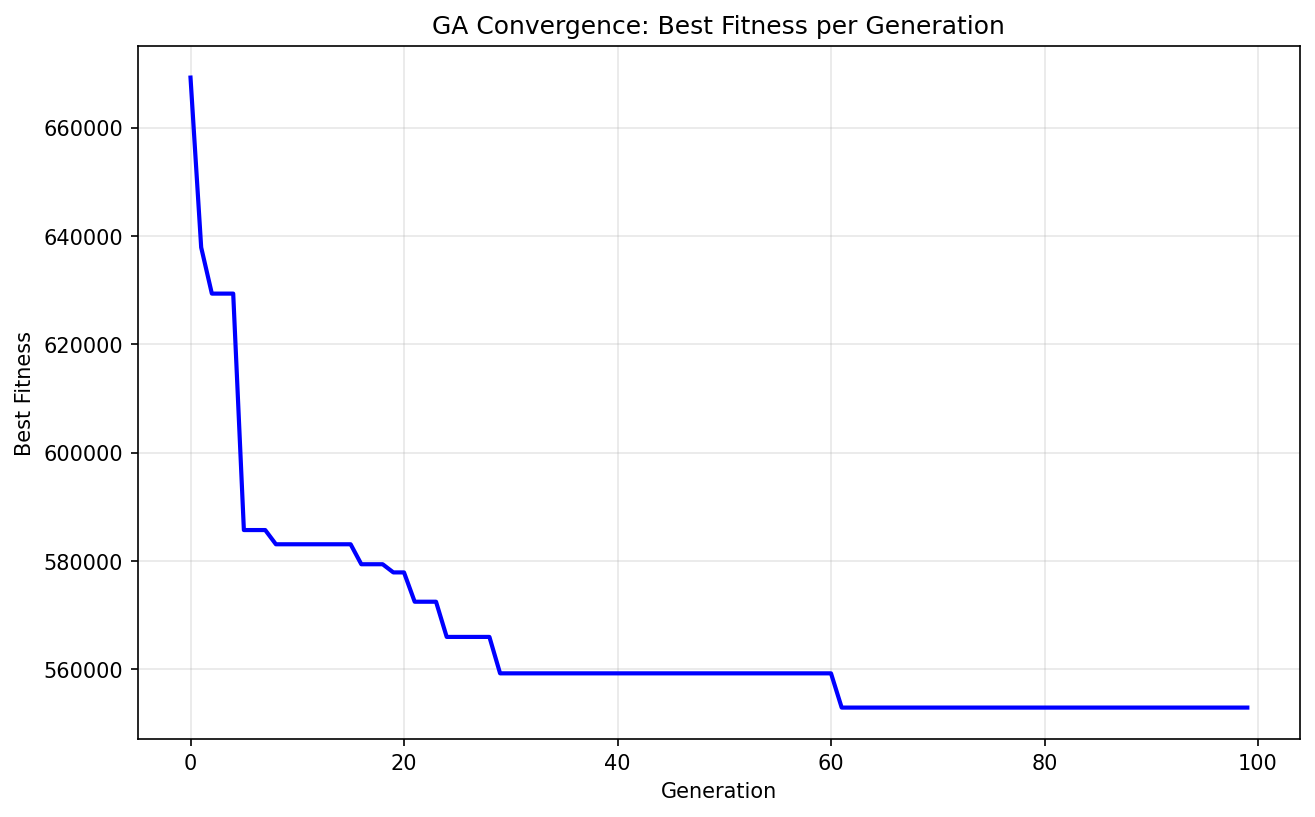
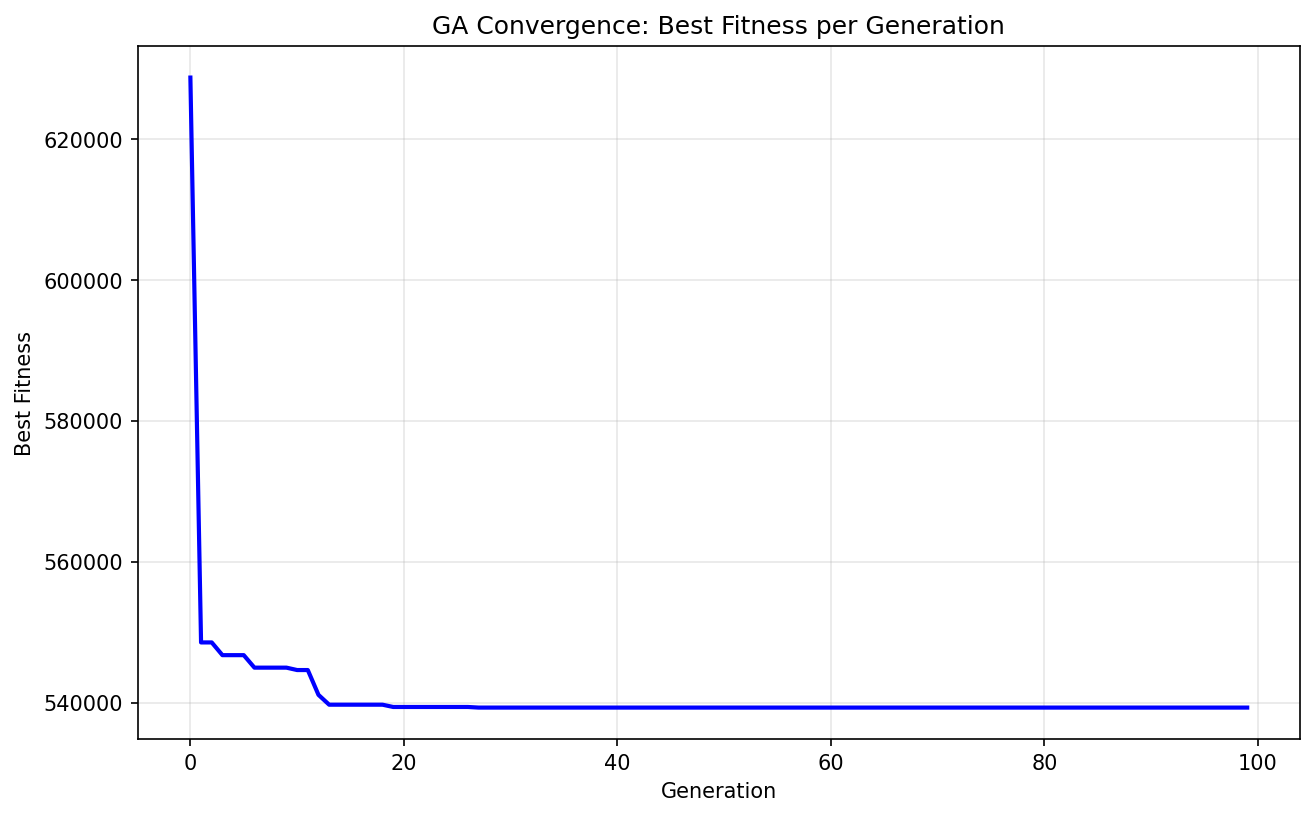
feat: update genetic algorithm parameters and enhance selection methods

diff --git a/src/genetic_algorithm.py b/src/genetic_algorithm.py
@@ -8,9 +8,9 @@ from typing import List, Callable, Optional
 
 
 NUM_STATIONS = 5
-POPULATION_SIZE = 50
-MUTATION_RATE = 0.1
-GENERATIONS = 100
+POPULATION_SIZE = 100
+MUTATION_RATE = 0.2
+GENERATIONS = 150
 
 
 class GeneticAlgorithm:
@@ -62,33 +62,27 @@ class GeneticAlgorithm:
         return random.sample(self.nodes, self.num_stations)
 
     def select_parents(
-        self, fitnesses: List[float]
+        self, fitnesses: List[float], tournament_size: int = 3
     ) -> List[int]:
-        """Roulette wheel selection.
+        """Tournament selection.
 
         Args:
             fitnesses: List of fitness values (lower = better).
+            tournament_size: Number of individuals to compare.
 
         Returns:
             Selected genome.
         """
-        # Convert to maximization (higher = better)
-        max_fitness = max(fitnesses)
-        inverted = [max_fitness - f for f in fitnesses]
-
-        total = sum(inverted)
-        if total == 0:
-            return random.choice(self.population)
-
-        # Roulette wheel
-        pick = random.uniform(0, total)
-        cumulative = 0.0
-        for i, fitness in enumerate(inverted):
-            cumulative += fitness
-            if cumulative >= pick:
-                return self.population[i].copy()
-
-        return self.population[-1].copy()
+        # Pick random candidates
+        indices = random.sample(range(len(self.population)), tournament_size)
+        
+        # Return the best one (lowest fitness)
+        best_idx = indices[0]
+        for idx in indices[1:]:
+            if fitnesses[idx] < fitnesses[best_idx]:
+                best_idx = idx
+        
+        return self.population[best_idx].copy()
 
     def crossover(
         self, parent_a: List[int], parent_b: List[int]
@@ -160,23 +154,83 @@ class GeneticAlgorithm:
 
         return result
 
+    def _greedy_genome(self, distance_matrix: np.ndarray) -> List[int]:
+        """Construct a high-quality genome greedily in O(K*N).
+        
+        Args:
+            distance_matrix: (N, N) distance matrix.
+            
+        Returns:
+            A high-quality initial genome.
+        """
+        num_nodes = distance_matrix.shape[0]
+        # Start with the node that has the minimum total distance to all others (Medoid)
+        current_best_distances = np.full(num_nodes, np.inf)
+        selected_indices = []
+        
+        # Only consider reachable nodes from the mask if possible, 
+        # but for simplicity we'll use the whole matrix as it's pre-filtered.
+        
+        for _ in range(self.num_stations):
+            # For every node, calculate what the total distance would be if we added it
+            # total_dist(j) = sum(min(current_best_distances, dist_to_j))
+            potential_distances = np.minimum(current_best_distances[:, np.newaxis], distance_matrix)
+            total_potential_costs = np.sum(potential_distances, axis=0)
+            
+            # Avoid picking the same node twice
+            for idx in selected_indices:
+                total_potential_costs[idx] = np.inf
+                
+            best_node_idx = np.argmin(total_potential_costs)
+            selected_indices.append(best_node_idx)
+            current_best_distances = potential_distances[:, best_node_idx]
+            
+        return [self.nodes[i] for i in selected_indices]
+
+    def _local_search(self, genome: List[int], fitness_fn: Callable) -> List[int]:
+        """Hill climbing: try swapping each station with its neighbors or random nodes."""
+        best_genome = genome.copy()
+        best_fitness = fitness_fn(best_genome)
+        
+        improved = True
+        while improved:
+            improved = False
+            for i in range(len(best_genome)):
+                original_node = best_genome[i]
+                # Try a few random nodes to swap with (Stochastic Hill Climbing)
+                # In a graph, we'd try neighbors, but random works for facility location.
+                candidates = random.sample(self.nodes, 10) 
+                for candidate in candidates:
+                    if candidate in best_genome: continue
+                    
+                    best_genome[i] = candidate
+                    new_fitness = fitness_fn(best_genome)
+                    
+                    if new_fitness < best_fitness:
+                        best_fitness = new_fitness
+                        improved = True
+                        break # Found a better node for this slot
+                    else:
+                        best_genome[i] = original_node # Revert
+                if improved: break
+        return best_genome
+
     def run(
         self,
-        fitness_fn: Callable[[List[int]], float],
+        fitness_fn: Callable,
         generations: int = GENERATIONS,
         verbose: bool = True,
     ) -> List[int]:
-        """Run GA evolution.
-
-        Args:
-            fitness_fn: Function that takes genome returns fitness.
-            generations: Number of generations to run.
-            verbose: Print progress.
-
-        Returns:
-            Best genome found.
-        """
+        """Run GA evolution with Greedy Seeding and Local Search."""
         self.initialize_population()
+        
+        # --- ONE CHANGE: GREEDY SEEDING ---
+        # If the fitness_fn is an instance of FitnessFunction, we can use its matrix
+        if hasattr(fitness_fn, 'distance_matrix'):
+            greedy_individual = self._greedy_genome(fitness_fn.distance_matrix)
+            self.population[0] = greedy_individual
+            if verbose: print("Greedy seed injected into population.")
+        # ----------------------------------
 
         best_genome = None
         best_fitness = float('inf')
@@ -209,6 +263,10 @@ class GeneticAlgorithm:
 
                 child = self.crossover(parent_a, parent_b)
                 child = self.mutate(child)
+                
+                # Periodically apply Local Search to children (Memetic Algorithm)
+                if random.random() < 0.10: # 10% of children get "smarter"
+                    child = self._local_search(child, fitness_fn)
 
                 new_population.append(child)
 

diff --git a/src/run_genetic_algorithm.py b/src/run_genetic_algorithm.py
@@ -118,10 +118,10 @@ def main():
     fitness_fn = load_fitness_function(nodes=nodes)
 
     # Run GA
-    print(f"\nRunning GA (100 generations, pop=50)...")
+    ga = GeneticAlgorithm(nodes)
+    print(f"\nRunning GA (Pop: {ga.pop_size}, Mutation: {ga.mutation_rate})...")
     start_time = time.time()
 
-    ga = GeneticAlgorithm(nodes)
     best_genome = ga.run(fitness_fn, generations=100, verbose=True)
 
     elapsed = time.time() - start_time